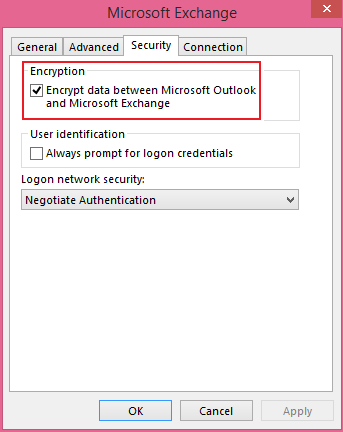
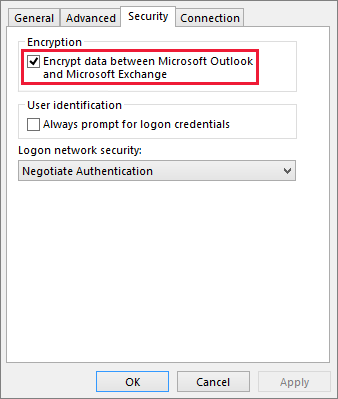
Image Improvements for outlook-connection-issue-caused-by-rpc-encryption-requirement.md
Changed some pictures and the related syntax.

Changed region(s): [[0.0, 0.0, 1.0, 1.0], [0.858, 0.2707, 0.8876, 0.3308]]

diff --git a/Exchange/ExchangeServer/client-connectivity/outlook-connection-issue-caused-by-rpc-encryption-requirement.md b/Exchange/ExchangeServer/client-connectivity/outlook-connection-issue-caused-by-rpc-encryption-requirement.md
@@ -30,7 +30,8 @@ _Original KB number:_ &nbsp;3032395
 
 The article only applies to the Microsoft Outlook connection issues that are caused by the RPC encryption requirement.
 
-![Screenshot about RPC encryption option](./media/outlook-connection-issue-caused-by-rpc-encryption-requirement/exchange-encryption.png)
+:::image type="content" source="./media/outlook-connection-issue-caused-by-rpc-encryption-requirement/exchange-encryption.png" alt-text="Screenshot about RPC encryption option.":::
+
 
 ## Symptoms
 
@@ -50,7 +51,7 @@ However, if you're using a cached mode profile, Outlook doesn't display an error
 
 - Outlook starts in the **Disconnected** state (the lower-right corner of the Outlook windows displays "Disconnected," the screenshot for the state is shown below).
 
-    ![Screenshot for the lower-right corner of the Outlook windows](./media/outlook-connection-issue-caused-by-rpc-encryption-requirement/disconnected-state.jpg)
+    :::image type="content" source="./media/outlook-connection-issue-caused-by-rpc-encryption-requirement/disconnected-state.png" alt-text="Screenshot for the error in the lower-right corner of the Outlook window.":::
 
 - Outlook starts and you can send and receive email messages. However, you only see two connections within the "Microsoft Exchange Connection Status" and you may see the Type Directory displayed as Disconnected/Connecting.
 
@@ -88,7 +89,7 @@ To manually update an existing Outlook profile so that it uses RPC encryption, f
 1. In the Microsoft Exchange dialog box, select the **Security** tab.
 1. Select **Encrypt data between Microsoft Office Outlook and Microsoft Exchange** > **OK** (A screenshot for this step can be seen here).
 
-    ![Screenshot with Encrypt data between Microsoft Office Outlook and Microsoft Exchange selected](./media/outlook-connection-issue-caused-by-rpc-encryption-requirement/select-encrypt-data-between-outlook-exchange.jpg)
+    :::image type="content" source="./media/outlook-connection-issue-caused-by-rpc-encryption-requirement/select-encrypt-data-between-outlook-exchange.png" alt-text="Screenshot with Encrypt data between Microsoft Office Outlook and Microsoft Exchange selected.":::
 
 1. Select **Next** > **Finish**.
 1. Select **Close** > **Close** > **OK**.
@@ -117,7 +118,7 @@ The default Group Policy template for Outlook 2010 contains the Group Policy set
 1. Under **User Configuration**, expand **Administrative Templates (ADM)** to locate the policy node for your template. By using the Outlk14.adm template, this node will be named Microsoft Outlook 2010.
 1. Under **Account Settings**, select the **Exchange** node (A screenshot for this step can be seen here).
 
-    :::image type="content" source="./media/outlook-connection-issue-caused-by-rpc-encryption-requirement/select-exchange-node-2010.jpg" alt-text="Screenshot with the Exchange node under Outlook 2010 selected.":::
+    :::image type="content" source="./media/outlook-connection-issue-caused-by-rpc-encryption-requirement/select-exchange-node-2010.png" alt-text="Screenshot with the Exchange node under Outlook 2010 selected.":::
 
 1. Double-click the **Enable RPC encryption** policy setting.
 1. On the **Setting** tab, select **Enabled**.
